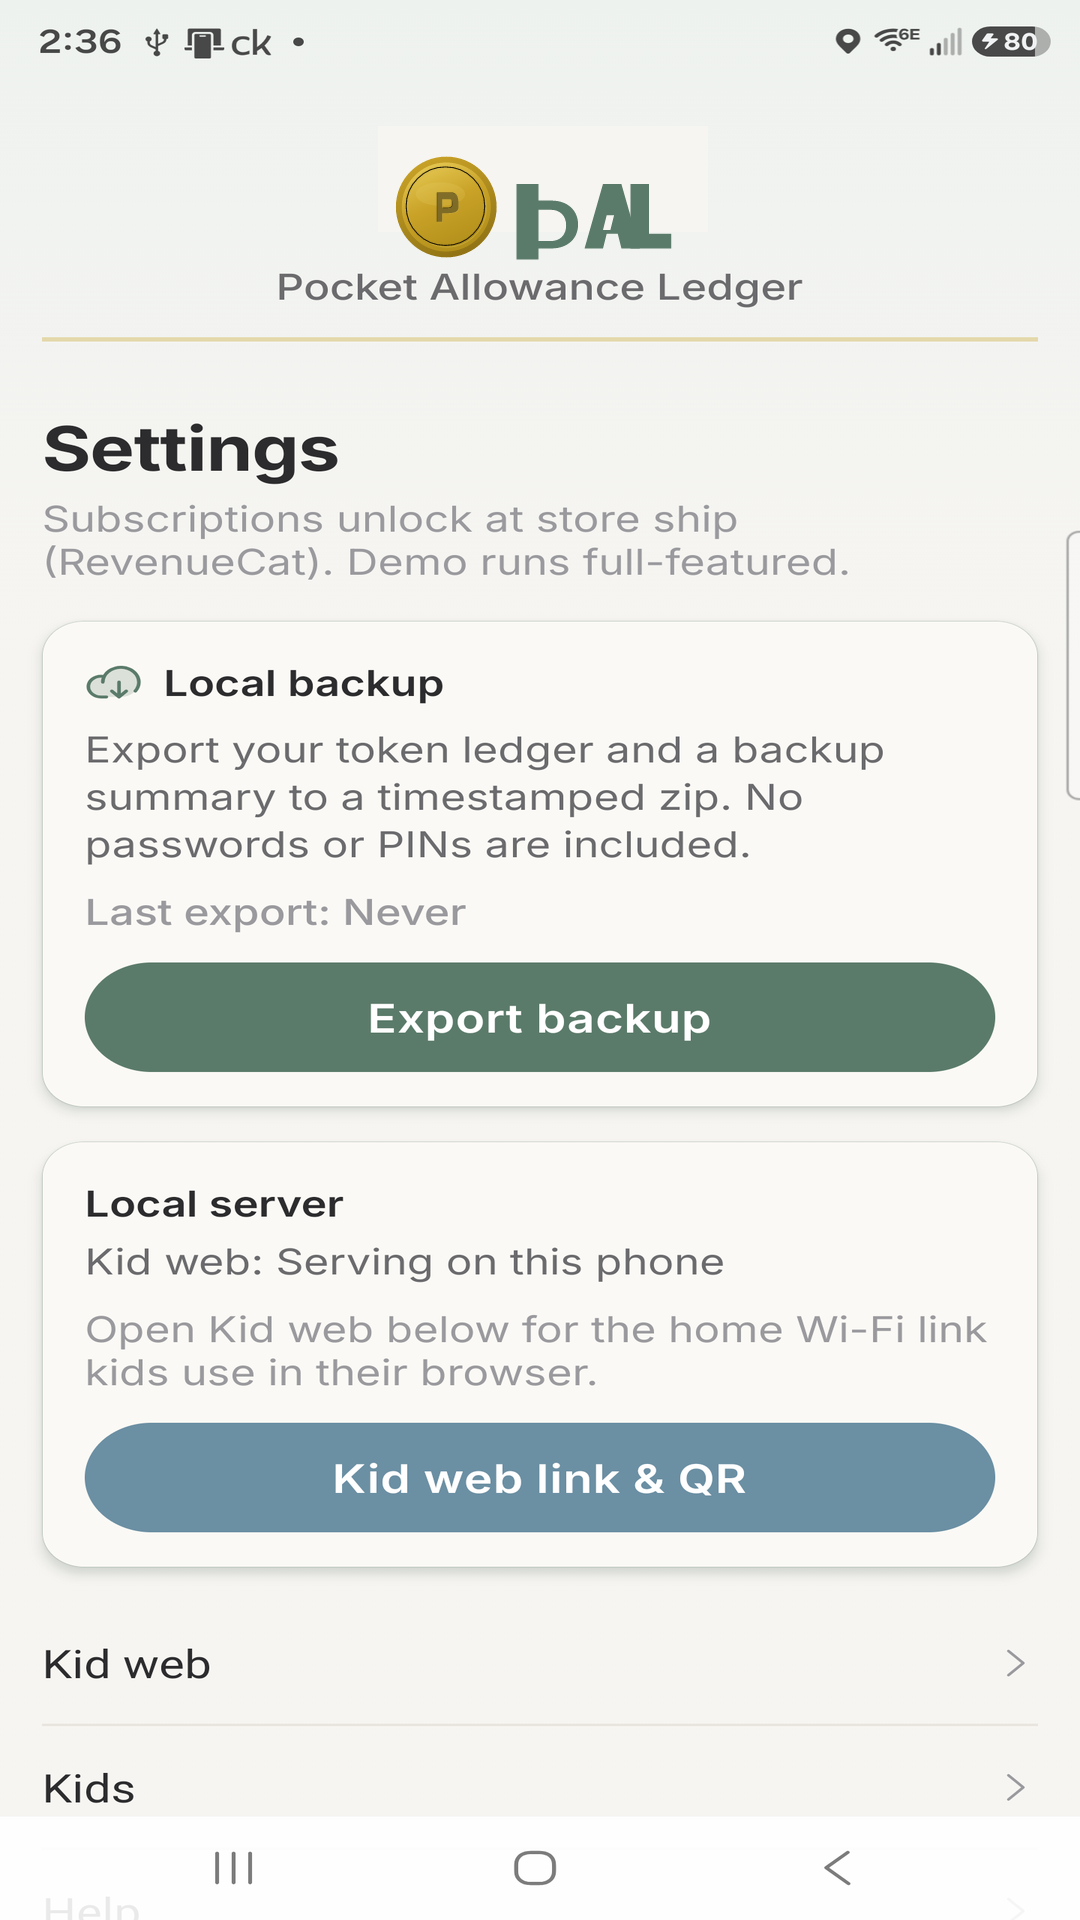
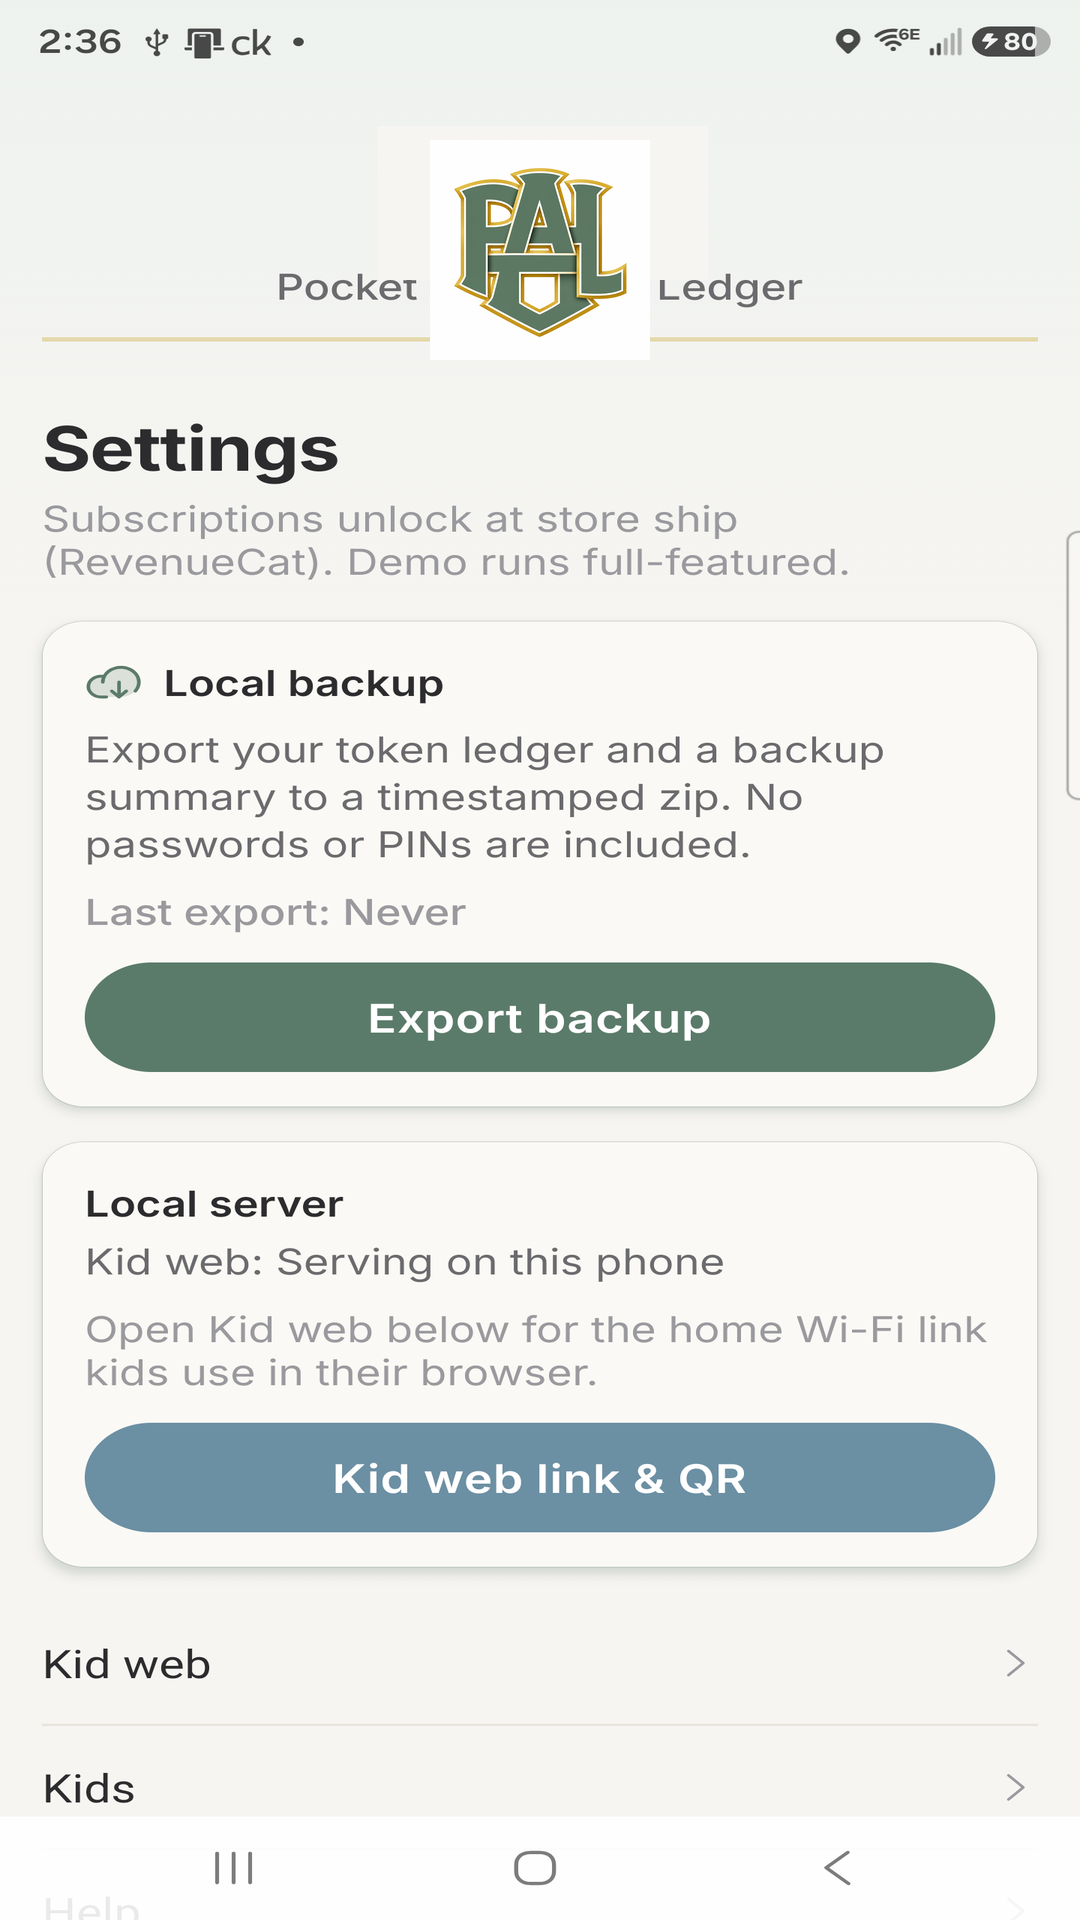
PAL site: letterman crest on hub hero and updated screenshots.

Changed region(s): [[0.3667, 0.0625, 0.6111, 0.1875]]

diff --git a/index.html b/index.html
@@ -3280,8 +3280,8 @@ body{font-family:'Manrope',sans-serif;background:var(--bg);color:var(--navy-dk);
           <div class="hub-cta">Open PAL <span>→</span></div>
         </div>
         <figure class="hub-card-shot hub-card-shot-token" aria-hidden="true">
-          <img src="assets/brand/pal-app-icon.svg?v=6" alt="PAL ledger doubloon" width="120" height="120" loading="lazy">
-          <p class="token-caption">Ledger doubloon</p>
+          <img src="assets/brand/pal-letterman-monogram.png?v=8" alt="PAL letterman crest" width="120" height="120" loading="lazy">
+          <p class="token-caption">Letterman crest</p>
         </figure>
       </div>
 
@@ -4523,9 +4523,9 @@ body{font-family:'Manrope',sans-serif;background:var(--bg);color:var(--navy-dk);
     <figure class="pal-hero-visual" aria-label="PAL token economy">
       <span class="hhh-platform-label">Parent-managed</span>
       <div class="pal-brand-stack">
-        <img class="pal-coin-sm pal-coin-a" src="assets/brand/pal-coin.svg?v=6" alt="" aria-hidden="true" width="48" height="48">
-        <img class="pal-coin-sm pal-coin-b" src="assets/brand/pal-coin.svg?v=6" alt="" aria-hidden="true" width="48" height="48">
-        <img class="pal-coin-lg" src="assets/brand/pal-app-icon.svg?v=6" alt="PAL ledger doubloon" width="120" height="120">
+        <img class="pal-coin-sm pal-coin-a" src="assets/brand/pal-coin.svg?v=8" alt="" aria-hidden="true" width="48" height="48">
+        <img class="pal-coin-sm pal-coin-b" src="assets/brand/pal-coin.svg?v=8" alt="" aria-hidden="true" width="48" height="48">
+        <img class="pal-coin-lg" src="assets/brand/pal-letterman-monogram.png?v=8" alt="PAL letterman crest" width="120" height="120">
         <p class="pal-brand-stack-title">Tokens for behavior.<br>Rewards you approve.</p>
         <p class="pal-brand-stack-sub">Parents manage in the app. Kids use the companion from any browser on home Wi&#8209;Fi.</p>
       </div>
@@ -4581,7 +4581,7 @@ body{font-family:'Manrope',sans-serif;background:var(--bg);color:var(--navy-dk);
         </ul>
       </div>
       <figure class="pal-brand-panel hhh-feature-visual">
-        <img src="assets/brand/pal-coin.svg?v=6" alt="" aria-hidden="true" width="72" height="72">
+        <img src="assets/brand/pal-coin.svg?v=8" alt="" aria-hidden="true" width="72" height="72">
         <figcaption class="pal-brand-panel-caption">Today&rsquo;s contracts, ready to tap</figcaption>
         <p class="pal-brand-panel-detail">Record in the app. Kids see feedback right away.</p>
       </figure>
@@ -4601,7 +4601,7 @@ body{font-family:'Manrope',sans-serif;background:var(--bg);color:var(--navy-dk);
         </ul>
       </div>
       <figure class="pal-brand-panel hhh-feature-visual">
-        <img src="assets/brand/pal-coin.svg?v=6" alt="" aria-hidden="true" width="72" height="72">
+        <img src="assets/brand/pal-coin.svg?v=8" alt="" aria-hidden="true" width="72" height="72">
         <figcaption class="pal-brand-panel-caption">Companion on home Wi&#8209;Fi</figcaption>
         <p class="pal-brand-panel-detail">A warm kid-facing view &mdash; tokens and rewards, not banking UI.</p>
       </figure>
@@ -4621,7 +4621,7 @@ body{font-family:'Manrope',sans-serif;background:var(--bg);color:var(--navy-dk);
         </ul>
       </div>
       <figure class="pal-brand-panel hhh-feature-visual">
-        <img src="assets/brand/pal-coin.svg?v=6" alt="" aria-hidden="true" width="72" height="72">
+        <img src="assets/brand/pal-coin.svg?v=8" alt="" aria-hidden="true" width="72" height="72">
         <figcaption class="pal-brand-panel-caption">Balances &amp; assignments</figcaption>
         <p class="pal-brand-panel-detail">Per-kid avatars, token counts, and rolling progress.</p>
       </figure>
@@ -4641,7 +4641,7 @@ body{font-family:'Manrope',sans-serif;background:var(--bg);color:var(--navy-dk);
         </ul>
       </div>
       <figure class="pal-brand-panel hhh-feature-visual">
-        <img src="assets/brand/pal-coin.svg?v=6" alt="" aria-hidden="true" width="72" height="72">
+        <img src="assets/brand/pal-coin.svg?v=8" alt="" aria-hidden="true" width="72" height="72">
         <figcaption class="pal-brand-panel-caption">Reports &amp; coaching cards</figcaption>
         <p class="pal-brand-panel-detail">Gentle evidence and plain-language nudges.</p>
       </figure>
@@ -4661,7 +4661,7 @@ body{font-family:'Manrope',sans-serif;background:var(--bg);color:var(--navy-dk);
         </ul>
       </div>
       <figure class="pal-brand-panel hhh-feature-visual">
-        <img src="assets/brand/pal-coin.svg?v=6" alt="" aria-hidden="true" width="72" height="72">
+        <img src="assets/brand/pal-coin.svg?v=8" alt="" aria-hidden="true" width="72" height="72">
         <figcaption class="pal-brand-panel-caption">Private by design</figcaption>
         <p class="pal-brand-panel-detail">Your data stays on your phone.</p>
       </figure>
